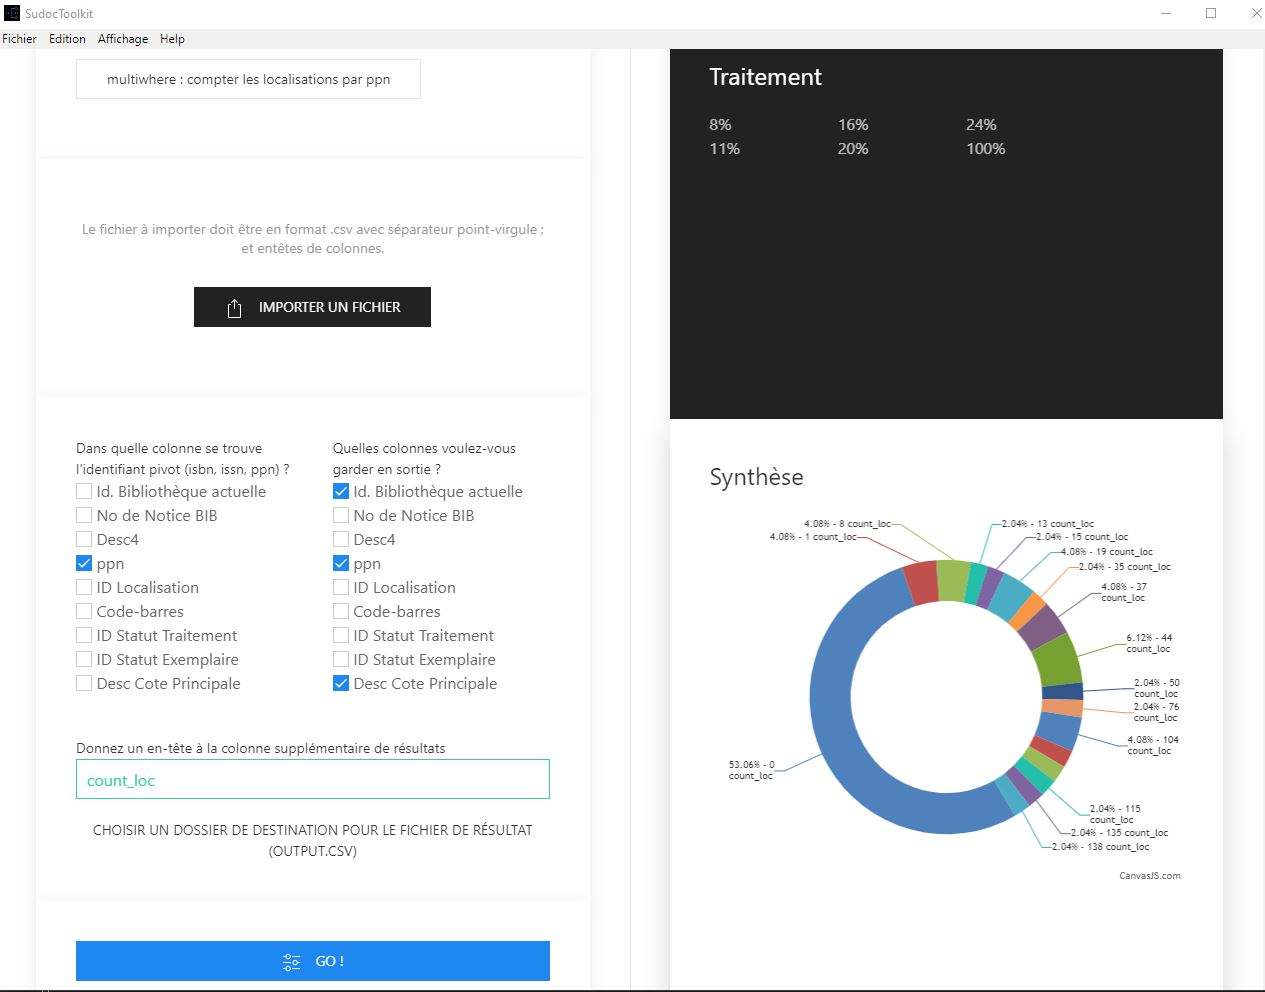
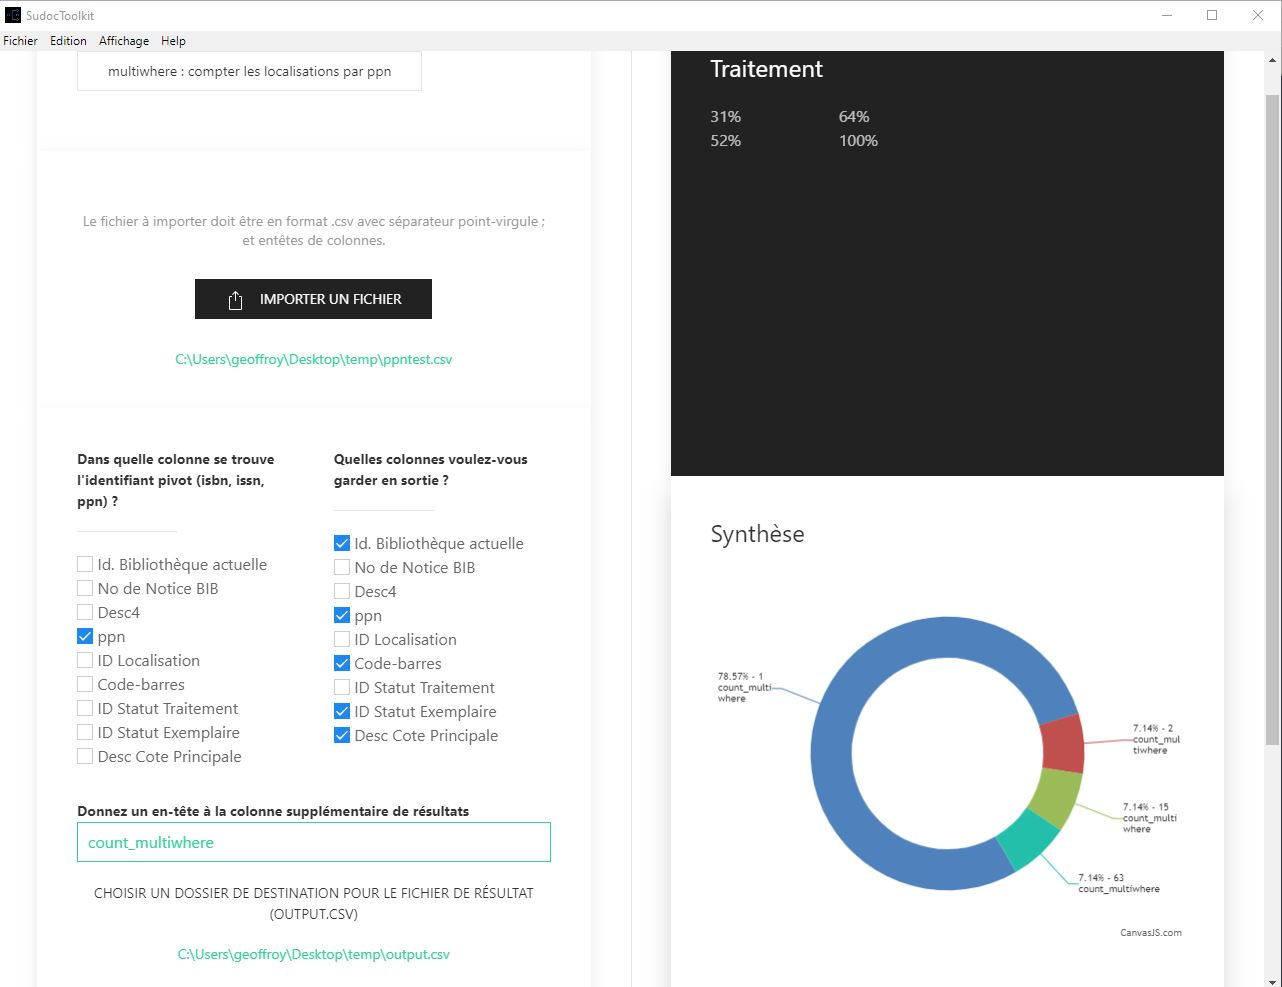
some UI stuff

diff --git a/index.html b/index.html
@@ -42,25 +42,28 @@
                                         <span class="uk-margin-small-right" uk-icon="push"></span>
                                     Importer un fichier</button>
                             </p>
+                            <!--<div class="uk-card-footer"></div>-->
+                            <p class="uk-text-success uk-text-meta uk-text-center uk-text-break" id="selectedFile"></p>
                             </div>
                             <div class="uk-card uk-card-hover uk-card-default uk-card-body">
                             <div class="uk-column-1-2">
                                 <div class="uk-margin">
-                                        <div class="uk-form-label">Dans quelle colonne se trouve l'identifiant pivot (isbn, issn, ppn) ?</div>
+                                        <div class="uk-form-label uk-text-bold">Dans quelle colonne se trouve l'identifiant pivot (isbn, issn, ppn) ?</div>
+                                        <hr class="uk-divider-small">
                                         <div class="uk-form-controls" id="checkboxIdResult">
                                             
                                         </div>
                                     </div>
-
                                     <div class="uk-margin">
-                                        <div class="uk-form-label">Quelles colonnes voulez-vous garder en sortie ?</div>
+                                        <div class="uk-form-label uk-text-bold">Quelles colonnes voulez-vous garder en sortie ?</div>
+                                        <hr class="uk-divider-small">
                                         <div class="uk-form-controls"id="checkboxColumnsResult">
                                            
                                         </div>
                                     </div>
                                     </div>
                                     <div class="uk-margin">
-                                            <label class="uk-form-label" for="form-stacked-text">Donnez un en-tête à la colonne supplémentaire de résultats</label>
+                                            <label class="uk-form-label uk-text-bold" for="form-stacked-text">Donnez un en-tête à la colonne supplémentaire de résultats</label>
                                             <div class="uk-form-controls">
                                                 <input class="uk-input uk-form-success" id="columnResultName" type="text">
                                             </div>
@@ -69,6 +72,7 @@
                                                 <div class="uk-form-controls">
                                                         <button class="uk-button uk-button-text" id="chooseResultFolderPath">Choisir un dossier de destination pour le fichier de résultat (output.csv)</button>
                                                         <input type="hidden" id="resultFolderPath">
+                                                        <p class="uk-text-success uk-text-meta uk-text-center uk-text-break" id="selectedFolderPath"></p>
                                                 </div>
                                             </div>
                             </div>

diff --git a/renderer-process/renderer.js b/renderer-process/renderer.js
@@ -23,7 +23,7 @@ var columnResultName;
 
 $('#options').change(function(){
     //first init variables
-    $("#checkboxIdResult").empty();$("#checkboxColumnsResult").empty();$('#columnResultName').val('');$('#chartContainer').empty();$('#fileResult').empty();$('#resultFolderPath').empty();
+    $("#selectedFile").empty();$("#selectedFolderPath").empty();$("#checkboxIdResult").empty();$("#checkboxColumnsResult").empty();$('#columnResultName').val('');$('#chartContainer').empty();$('#fileResult').empty();$('#resultFolderPath').empty();
     selectedOption = $(this).val();
 })
 
@@ -35,13 +35,14 @@ $( "#openSourceFile" ).click(function() {
    ]},function (fileNames) {
     if (fileNames === undefined) return; 
     fileName = fileNames[0];
+    $("#selectedFile").append(fileName)
     fs.createReadStream(fileName)
     .pipe(parse({delimiter: ';',trim: true,from_line:1,to_line:1}))
     .on('error', function (error) {
         dialog.showMessageBox(null,{message: error});
     })
     .on('data', function(csvrow) {            
-       return  csvrow.map(function(key){
+       return  csvrow.map(function(key){   
         $("#checkboxIdResult").append("<label><input class='idChoice uk-checkbox' value='" + key + "' type='checkbox' /> "+key+"</label><br>")
         $("#checkboxColumnsResult").append("<label><input class='columnsChoice uk-checkbox' value='" + key + "' type='checkbox' /> "+key+"</label><br>")   
        })   
@@ -66,6 +67,7 @@ $("#chooseResultFolderPath").click(function(){
             return;
         }else{
          $("#resultFolderPath").val(path.join(folderPaths[0],fileResult));
+         $("#selectedFolderPath").append(path.join(folderPaths[0],fileResult))
          console.log(path.join(folderPaths[0],fileResult))
         }
     })
